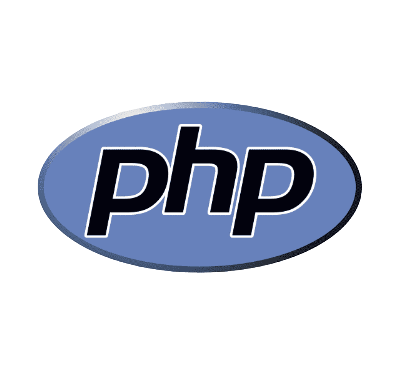
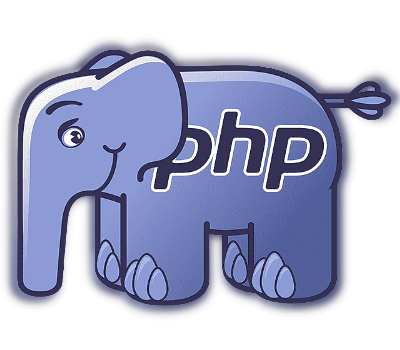
Feat: nodejs and react to programs

diff --git a/database/seeders/ProgramSeeder.php b/database/seeders/ProgramSeeder.php
@@ -25,19 +25,31 @@ class ProgramSeeder extends Seeder
             'name' => 'PHP',
             'description' => 'Descubre el poder de PHP, el corazón de las aplicaciones web modernas. Con PHP, podrás construir servidores robustos y escalables, gestionando datos y lógica de forma eficiente. Desde manejar bases de datos hasta crear APIs sólidas, PHP te brinda el control total sobre la funcionalidad y rendimiento de tus aplicaciones. Únete a nuestra formación especializada y desbloquea todo el potencial de PHP para llevar tus habilidades en el backend al siguiente nivel. ¡Prepárate para crear una experiencia web excepcional!',
             'price' => '550',
-            'image' => 'images/php.png',
+            'image' => 'images/php1.png',
         ],
         [
             'name' => 'Python',
-            'description' => 'Descubre Python, el lenguaje que enamora a millones de desarrolladores en todo el mundo. Con su sintaxis elegante y versatilidad, resolver problemas complejos será sencillo y emocionante. Desde IA hasta desarrollo web, Python tiene todo lo que necesitas para crear proyectos asombrosos. ¡Únete a nuestra academia y desata tu creatividad sin límites!',
+            'description' => 'Explora Python, el lenguaje que enamora a millones de desarrolladores en todo el mundo. Con su sintaxis elegante y versatilidad, resolver problemas complejos será sencillo y emocionante. Desde IA hasta desarrollo web, Python tiene todo lo que necesitas para crear proyectos asombrosos. ¡Únete a nuestra academia y desata tu creatividad sin límites!',
             'price' => '580',
             'image' => 'images/python.png',
         ],
         [
             'name' => 'Ciberseguridad',
-            'description' => 'Adéntrate en el apasionante mundo de la ciberseguridad, donde la protección y defensa de datos se convierte en una misión crucial. Descubre técnicas de vanguardia para salvaguardar sistemas y redes contra amenazas cibernéticas. Conviértete en un guardián digital experto, protegiendo información valiosa y manteniendo a salvo el mundo conectado. ¡Únete a nuestra academia y prepárate para defender con éxito el futuro digital!',
+            'description' => 'Sumérgete en el apasionante mundo de la ciberseguridad, donde la protección y defensa de datos se convierte en una misión crucial. Descubre técnicas de vanguardia para salvaguardar sistemas y redes contra amenazas cibernéticas. Conviértete en un guardián digital experto, protegiendo información valiosa y manteniendo a salvo el mundo conectado. ¡Únete a nuestra academia y prepárate para defender con éxito el futuro digital!',
             'price' => '700',
-            'image' => 'images/ciberseguridad.png',
+            'image' => 'images/ciber1.png',
+        ],
+        [
+            'name' => 'React',
+            'description' => 'Aprende React, la biblioteca JavaScript que cautiva a millones de desarrolladores en todo el mundo. Con su enfoque en la construcción de interfaces de usuario eficientes y reactivas, resolver desafíos en el desarrollo web será una experiencia fluida y emocionante. Desde la creación de aplicaciones de una sola página (SPA) hasta la gestión de complejas interfaces de usuario, React ofrece todo lo necesario para crear proyectos asombrosos. ¡Únete a nuestra comunidad y desata tu creatividad sin límites mientras construyes interfaces modernas y dinámicas para la web!',
+            'price' => '600',
+            'image' => 'images/react.png',
+        ],
+        [
+            'name' => 'Node.js',
+            'description' => 'Ingresa en el mundo de Node.js, la plataforma de tiempo de ejecución de JavaScript que ha cautivado a millones de desarrolladores en todo el mundo. Con su arquitectura basada en eventos y su enfoque en la programación asíncrona, resolver problemas de manejo de servidores y aplicaciones en tiempo real será una experiencia eficiente y emocionante. Desde la creación de servidores web escalables y rápidos hasta aplicaciones de red en tiempo real, Node.js ofrece todo lo que necesitas para crear proyectos asombrosos. ¡Únete a nuestra comunidad y desata tu creatividad sin límites mientras desarrollas aplicaciones y servicios de alto rendimiento con JavaScript en el lado del servidor!',
+            'price' => '500',
+            'image' => 'images/nodejs.png',
         ],
         ]);
     }

diff --git a/database/seeders/UserSeeder.php b/database/seeders/UserSeeder.php
@@ -14,21 +14,7 @@ class UserSeeder extends Seeder
     public function run(): void
     {
         //
-        DB::table('users')->insert([
-            [
-                'name' => 'admin',
-                'surname' => 'admin',
-                'email' => 'admin@admin.com',
-                'password' => 'Hola1234',
-                'role_id' => '1'
-            ],
-            [
-                'name' => 'user',
-                'surname' => 'user',
-                'email' => 'user@user.com',
-                'password' => 'Hola1234',
-                'role_id' => '2'
-            ]
-        ]);
+        // DB::table('users')->insert([
+        // ]);
     }
 }
